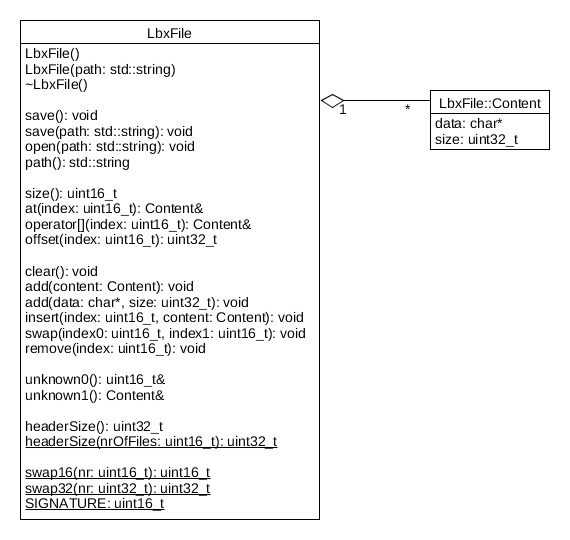
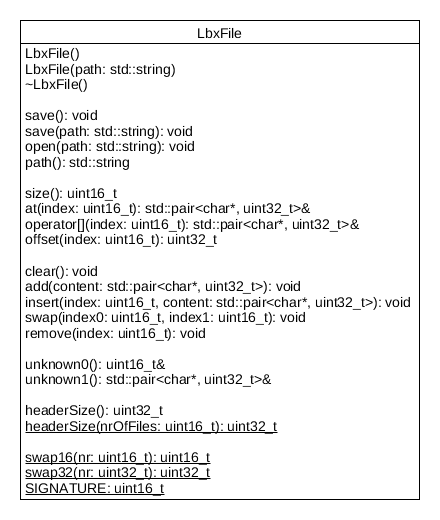
changed content from custom class to std::pair

diff --git a/src/lbx.cpp b/src/lbx.cpp
@@ -5,8 +5,8 @@
 
 LbxFile::LbxFile() {
     u0 = 0;
-    u1.data = NULL;
-    u1.size = 0;
+    u1.first = NULL;
+    u1.second = 0;
 }
 
 LbxFile::LbxFile(std::string _path) : LbxFile() {
@@ -15,21 +15,21 @@ LbxFile::LbxFile(std::string _path) : LbxFile() {
 
 LbxFile::~LbxFile() {
     clear();
-    delete[] u1.data;
+    delete[] u1.first;
 }
 
 void LbxFile::clear() {
     for (uint16_t i = 0; i < content.size(); ++i) {
-        delete[] at(i).data;
+        delete[] at(i).first;
     }
     content.clear();
 }
 
-LbxFile::Content& LbxFile::operator[](uint16_t _index) {
+std::pair<char*, uint32_t>& LbxFile::operator[](uint16_t _index) {
     return at(_index);
 }
 
-LbxFile::Content& LbxFile::at(uint16_t _index) {
+std::pair<char*, uint32_t>& LbxFile::at(uint16_t _index) {
     return content[_index];
 }
 
@@ -37,15 +37,8 @@ std::string LbxFile::path() {
     return filePath;
 }
 
-void LbxFile::add(Content _content) {
+void LbxFile::add(std::pair<char*, uint32_t> _content) {
     content.push_back(_content);
-}
-
-void LbxFile::add(char* _data, uint32_t _size) {
-    Content c;
-    c.data = _data;
-    c.size = _size;
-    add(c);
 }
 
 uint16_t LbxFile::size() {
@@ -56,7 +49,7 @@ uint16_t& LbxFile::unknown0() {
     return u0;
 }
 
-LbxFile::Content& LbxFile::unknown1() {
+std::pair<char*, uint32_t>& LbxFile::unknown1() {
     return u1;
 }
 
@@ -84,26 +77,26 @@ void LbxFile::save(std::string _path) {
     LBX_WRITE_32(SIGNATURE);
     LBX_WRITE_16(u0);
 
-    uint32_t offset = headerSize() + unknown1().size;
+    uint32_t offset = headerSize() + unknown1().second;
     LBX_WRITE_32(offset);
     for (uint16_t i = 0; i < size(); ++i) {
-        offset += at(i).size;
+        offset += at(i).second;
         LBX_WRITE_32(offset);
     }
 
-    o.write(u1.data, u1.size);
+    o.write(u1.first, u1.second);
 
     for (uint16_t i = 0; i < size(); ++i) {
-        o.write(at(i).data, at(i).size);
+        o.write(at(i).first, at(i).second);
     }
 
     filePath = _path;
 }
 
 uint32_t LbxFile::offset(uint16_t _index) {
-    uint32_t o = headerSize() + unknown1().size;
+    uint32_t o = headerSize() + unknown1().second;
     for (uint16_t i = 0; i < _index; ++i) {
-        o += at(i).size;
+        o += at(i).second;
     }
     return o;
 }
@@ -126,18 +119,18 @@ uint32_t LbxFile::swap32(uint32_t _nr) {
 }
 
 void LbxFile::remove(uint16_t _index) {
-    delete[] at(_index).data;
+    delete[] at(_index).first;
     content.erase(content.begin() + _index);
 }
 
-void LbxFile::insert(uint16_t _index, Content _content) {
+void LbxFile::insert(uint16_t _index, std::pair<char*, uint32_t> _content) {
     content.insert(content.begin() + _index, _content);
 }
 
 void LbxFile::swap(uint16_t index0, uint16_t index1) {
-    Content c = at(index0);
+    std::pair<char*, uint32_t> p = at(index0);
     at(index0) = at(index1);
-    at(index1) = c;
+    at(index1) = p;
 }
 
 #define LBX_OPEN_ERROR(x)\
@@ -188,21 +181,21 @@ void LbxFile::open(std::string _path) {
 
     // file is good, clean up
     clear();
-    delete[] u1.data;
+    delete[] u1.first;
     filePath = _path;
 
     // save unknown data
     u0 = wtf;
-    u1.size = offsets[0] - headerSize(nrOfFiles);
-    u1.data = new char[u1.size];
-    file.read(u1.data, u1.size);
+    u1.second = offsets[0] - headerSize(nrOfFiles);
+    u1.first = new char[u1.second];
+    file.read(u1.first, u1.second);
 
     // read file data
     for (uint16_t i = 0; i < nrOfFiles; ++i) {
         uint32_t s = offsets[i + 1] - offsets[i];
         char* d = new char[s];
         file.read(d, s);
-        add(d, s);
+        add({d, s});
     }
 
     delete[] offsets;

diff --git a/src/test.cpp b/src/test.cpp
@@ -11,27 +11,27 @@ const unsigned LBXTEST_DATA_STATIC_SIZE = 62;
 const uint8_t LBXTEST_DATA_STATIC[LBXTEST_DATA_STATIC_SIZE] = {5, 0, 173, 254, 0, 0, 42, 0, 37, 0, 0, 0, 42, 0, 0, 0, 47, 0, 0, 0, 52, 0, 0, 0, 57, 0, 0, 0, 62, 0, 0, 0, 116, 101, 115, 116, 255, 116, 101, 115, 116, 0, 116, 101, 115, 116, 1, 116, 101, 115, 116, 2, 116, 101, 115, 116, 3, 116, 101, 115, 116, 4};
 #endif /* LBXTEST_DATA_STATIC_H */
 
-LbxFile::Content gen(uint8_t nr) {
-    LbxFile::Content c;
-    c.data = new char[5];
-    c.data[0] = 't';
-    c.data[1] = 'e';
-    c.data[2] = 's';
-    c.data[3] = 't';
-    c.data[4] = (char) nr;
-    c.size = 5;
-    return c;
+std::pair<char*, uint32_t> gen(uint8_t nr) {
+    std::pair<char*, uint32_t> p;
+    p.first = new char[5];
+    p.first[0] = 't';
+    p.first[1] = 'e';
+    p.first[2] = 's';
+    p.first[3] = 't';
+    p.first[4] = (char) nr;
+    p.second = 5;
+    return p;
 }
 
-uint8_t get(LbxFile::Content& content) {
-    if (content.size != 5
-            || content.data[0] != 't'
-            || content.data[1] != 'e'
-            || content.data[2] != 's'
-            || content.data[3] != 't') {
+uint8_t get(std::pair<char*, uint32_t>& content) {
+    if (content.second != 5
+            || content.first[0] != 't'
+            || content.first[1] != 'e'
+            || content.first[2] != 's'
+            || content.first[3] != 't') {
         throw std::runtime_error("invalid content");
     }
-    return (uint8_t) content.data[4];
+    return (uint8_t) content.first[4];
 }
 
 #define LBX_TEST_CMP(x, y, z){\
@@ -119,7 +119,7 @@ void test() {
     lbx.unknown0() = 7;
     cmp("unknown0", lbx, 7, 255,{4, 3, 2, 1, 0, 5});
 
-    delete[] lbx.unknown1().data;
+    delete[] lbx.unknown1().first;
     lbx.unknown1() = gen(23);
     cmp("unknown1", lbx, 7, 23,{4, 3, 2, 1, 0, 5});
 

diff --git a/src/lbx.h b/src/lbx.h
@@ -12,15 +12,6 @@ class LbxFile {
 public:
 
     /**
-     * Simple container class to hold archived files.
-     */
-    class Content {
-    public:
-        char* data;
-        uint32_t size;
-    };
-
-    /**
      * A new empty lbx file.
      */
     LbxFile();
@@ -75,14 +66,14 @@ public:
      * @param index
      * @return content
      */
-    Content& at(uint16_t index);
+    std::pair<char*, uint32_t>& at(uint16_t index);
 
     /**
      * Get content at given index.
      * @param index
      * @return content
      */
-    Content& operator[](uint16_t index);
+    std::pair<char*, uint32_t>& operator[](uint16_t index);
 
     /**
      * Calculate starting offset for given index.
@@ -102,15 +93,7 @@ public:
      * Added data will be deleted by this class.
      * @param content
      */
-    void add(Content content);
-
-    /**
-     * Add content to archive.
-     * Added data will be deleted by this class.
-     * @param data
-     * @param size
-     */
-    void add(char* data, uint32_t size);
+    void add(std::pair<char*, uint32_t> content);
 
     /**
      * Insert content at given index.
@@ -118,7 +101,7 @@ public:
      * @param index
      * @param content
      */
-    void insert(uint16_t index, Content content);
+    void insert(uint16_t index, std::pair<char*, uint32_t> content);
 
     /**
      * Switch content at given indexes.
@@ -143,7 +126,7 @@ public:
      * Get and set unknown space.
      * @return content reference
      */
-    Content& unknown1();
+    std::pair<char*, uint32_t>& unknown1();
 
     /**
      * Calculate header size.
@@ -179,8 +162,8 @@ public:
 
 private:
     uint16_t u0;
-    Content u1;
-    std::vector<Content> content;
+    std::pair<char*, uint32_t> u1;
+    std::vector<std::pair<char*, uint32_t>> content;
     std::string filePath;
 };
 

diff --git a/README.md b/README.md
@@ -71,6 +71,7 @@ int main(int argc, char** argv) {
 
 ## First steps
 To get familiar with the API see the simple [class diagram](./doc/class-diagram.svg):
+
 ![class diagram](./doc/class-diagram.svg)
 
 If you are intrested any further have a look at the [file format description](./doc/lbx-format.pdf).
